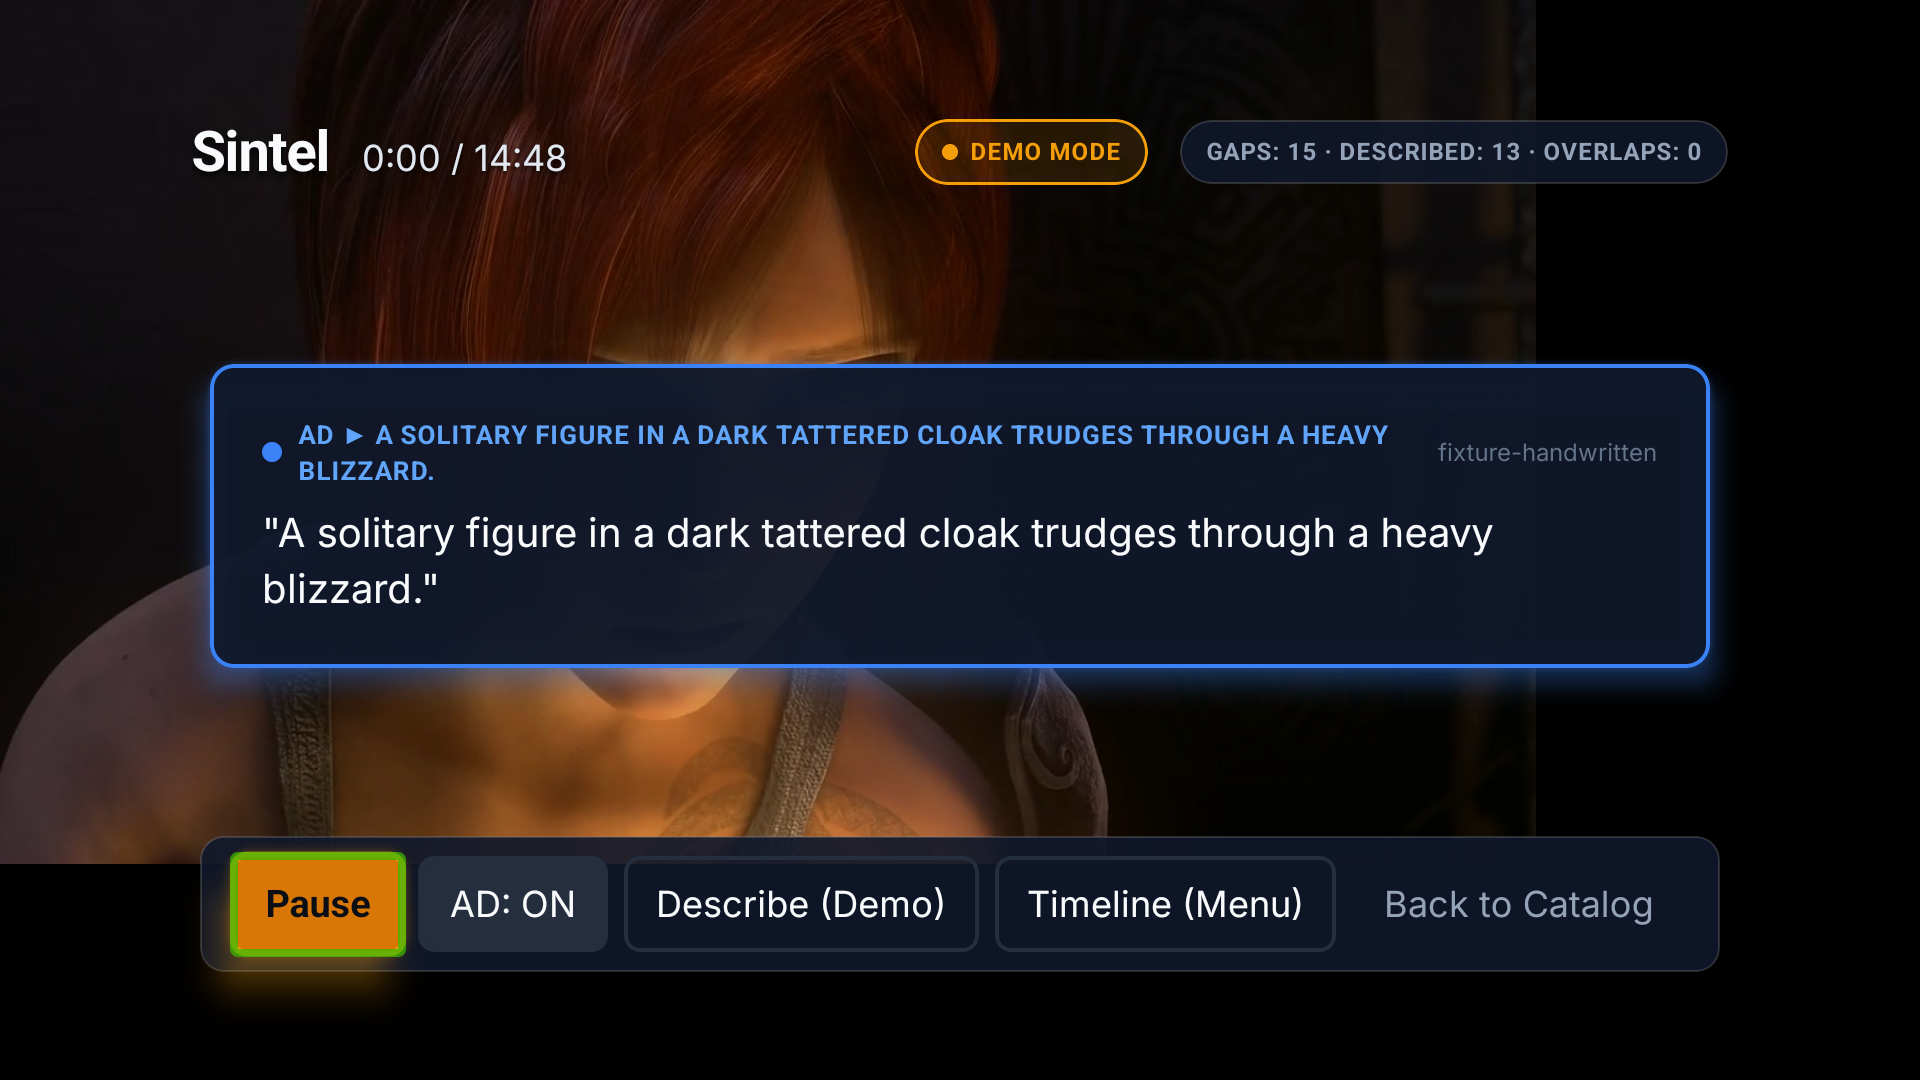
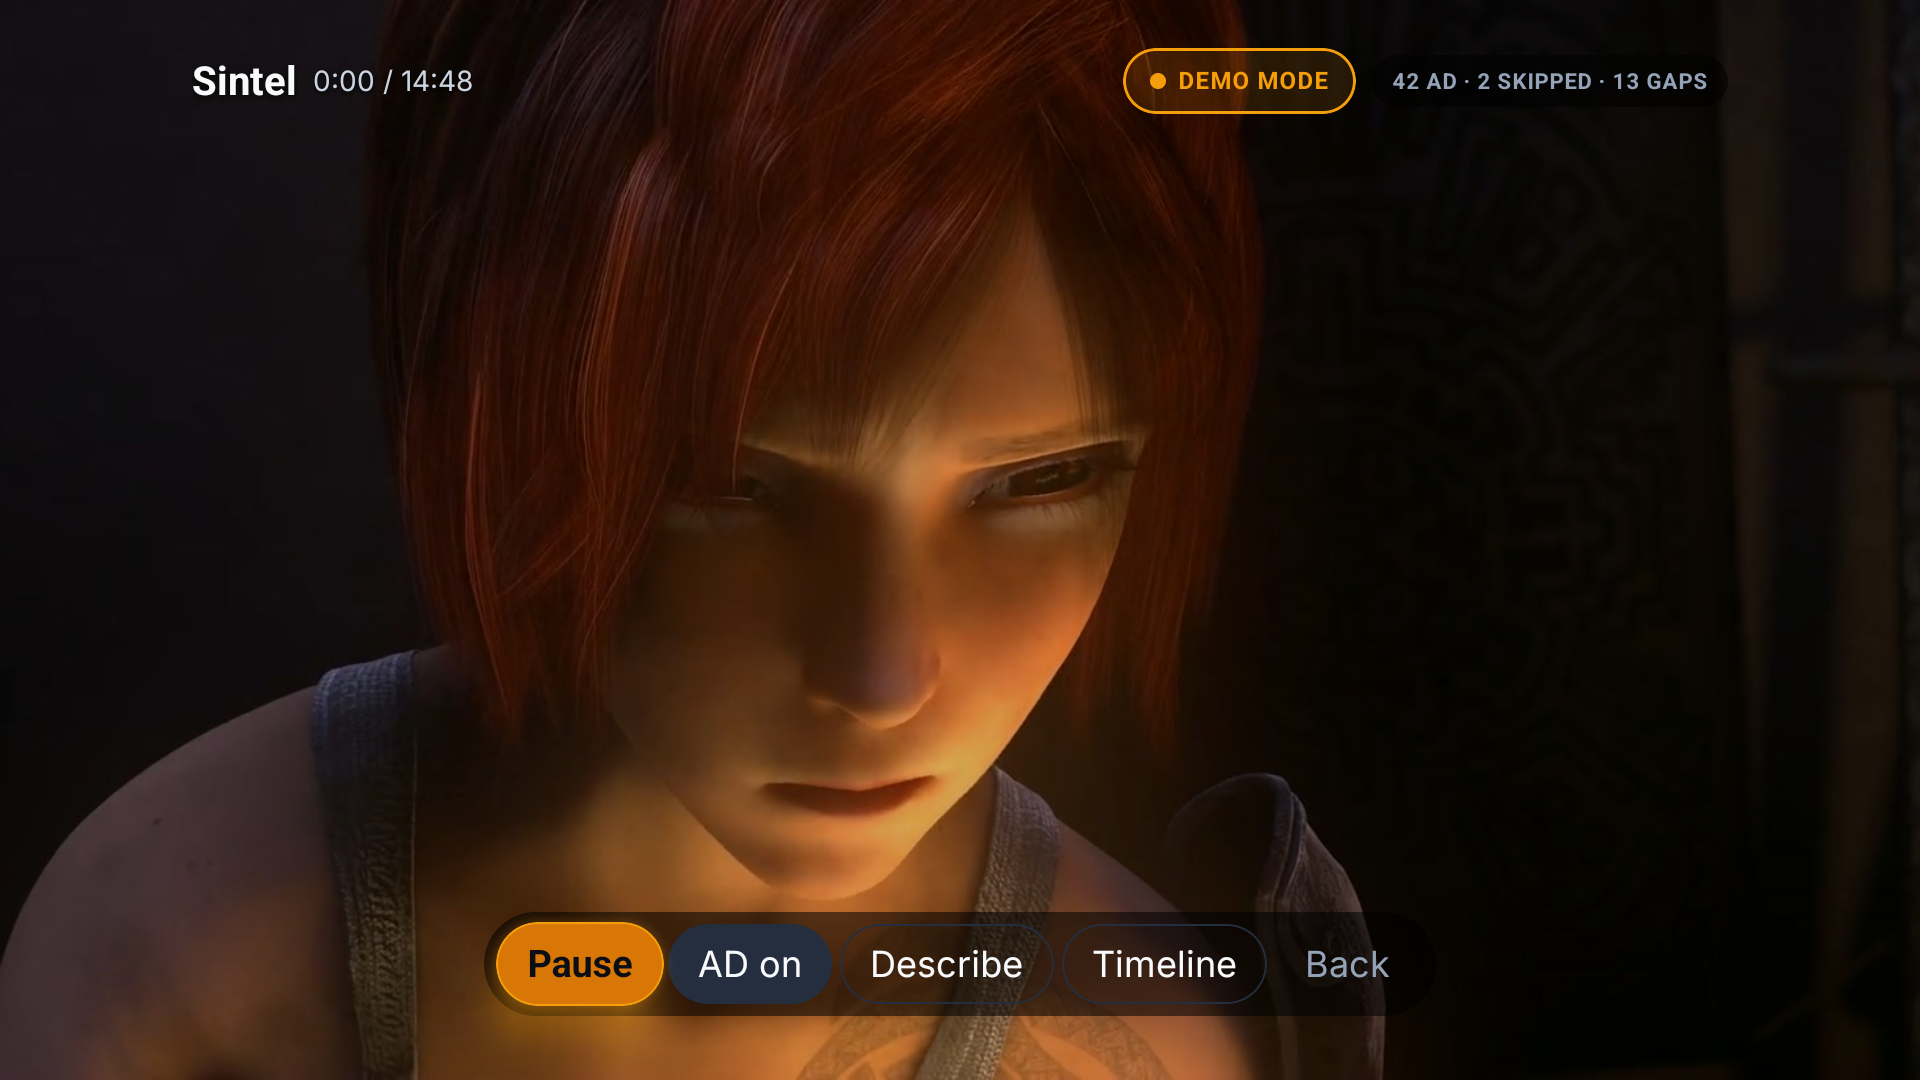
LIVE mode was unreachable in every build ever shipped. Make it a runtime switch
Found while shooting the demo video. The plan was to build a LIVE apk, film the
Fire TV app calling the deployed Bedrock pipeline, and have the AWS Builder
claim shown rather than asserted. The LIVE build came out identical to the DEMO
build, which is how this surfaced.

WHAT WAS BROKEN

core/config.ts read process.env.DEMO_MODE and process.env.API_URL, and the
Describe button told the user: "Set DEMO_MODE=false with AWS credentials to use
live Bedrock inference." Neither the variable nor the instruction could work,
for two compounding reasons:

1. babel-preset-expo inlines only EXPO_PUBLIC_* names into a bundle. A bare
   DEMO_MODE does not exist in the JS runtime on an Android device at all.
2. babel.config.js calls api.cache(true), so transform output is cached
   irrespective of the environment. Even after renaming everything to
   EXPO_PUBLIC_*, the values were still not substituted.

Proof, rather than inference. ops-tools/inspect-apk-bundle.ps1 reads
assets/index.android.bundle straight out of the APK and searches it:

  ABSENT   oqxbh0hegf                 <- the endpoint never reached the bundle
  ABSENT   2026.09.14-live.v4         <- nor did the revision
  PRESENT  EXPO_PUBLIC_DEMO_MODE      <- left as a runtime lookup, not inlined

The first LIVE build also reported "assembleRelease UP-TO-DATE, 4 executed":
Gradle keys the JS bundle task on input FILES, and an environment variable is
not a file, so it shipped the previous bundle. Deleting the generated assets
[…]

diff --git a/apps/firetv/tests/config-env-prefix.test.ts b/apps/firetv/tests/config-env-prefix.test.ts
@@ -1,0 +1,118 @@
+/**
+ * The bug this pins, and why the fix looks the way it does.
+ *
+ * core/config.ts read process.env.DEMO_MODE and process.env.API_URL, and the
+ * app told people to "Set DEMO_MODE=false" for live inference. That could not
+ * work, for two compounding reasons:
+ *
+ *  1. babel-preset-expo inlines only EXPO_PUBLIC_* names into a bundle, so a
+ *     bare DEMO_MODE does not exist in the device runtime at all.
+ *  2. babel.config.js calls api.cache(true), so transform output is cached
+ *     regardless of environment - even EXPO_PUBLIC_ names were left as live
+ *     process.env lookups rather than replaced with values.
+ *
+ * Proved by reading the JS bundle out of the built APK: the endpoint URL was
+ * ABSENT and the literal string EXPO_PUBLIC_DEMO_MODE was PRESENT, which is
+ * the exact opposite of inlining. So demoMode was permanently true and apiUrl
+ * permanently empty in every build ever produced.
+ *
+ * The fix stops depending on build-time environment entirely: the endpoint is
+ * committed, demo mode still defaults to true, and the switch is made at
+ * runtime. These tests exist so nobody reintroduces an env-var switch that
+ * silently does nothing.
+ */
+import fs from 'node:fs';
+import path from 'node:path';
+
+const configPath = path.resolve(__dirname, '../src/core/config.ts');
+const configSource = fs.readFileSync(configPath, 'utf8');
+
+const freshConfig = () => {
+  jest.resetModules();
+  // eslint-disable-next-line @typescript-eslint/no-var-requires
+  return require('../src/core/config');
+};
+
+describe('runtime config does not depend on build-time environment variables', () => {
+  it('reads no process.env at all', () => {
+    // The whole class of bug was "an env var that never arrives". The only
+    // safe number of env reads in this file is zero.
+    const withoutComments = configSource.replace(/\/\*[\s\S]*?\*\/|\/\/.*$/gm, '');
+    expect(withoutComments).not.toContain('process.env');
+  });
+
+  it('defaults to demo mode, so an unconfigured build still works for a judge', () => {
+    const { config } = freshConfig();
+    expect(config.demoMode).toBe(true);
+  });
+
+  it('ships a real endpoint so LIVE has somewhere to call', () => {
+    const { config, canGoLive } = freshConfig();
+    expect(config.apiUrl).toMatch(/^https:\/\//);
+    expect(canGoLive()).toBe(true);
+  });
+});
+
+describe('the mode can be switched at runtime', () => {
+  it('flips demo mode and reports it back', () => {
+    const { config, setDemoMode } = freshConfig();
+    expect(config.demoMode).toBe(true);
+    setDemoMode(false);
+    expect(config.demoMode).toBe(false);
+    setDemoMode(true);
+    expect(config.demoMode).toBe(true);
+  });
+
+  it('notifies subscribers, and stops after unsubscribe', () => {
+    const { setDemoMode, onModeChange } = freshConfig();
+    const seen: boolean[] = [];
+    const off = onModeChange(v => seen.push(v));
+
+    setDemoMode(false);
+    setDemoMode(true);
+    expect(seen).toEqual([false, true]);
+
+    off();
+    setDemoMode(false);
+    expect(seen).toEqual([false, true]);
+  });
+
+  it('does not notify when the value is unchanged', () => {
+    const { setDemoMode, onModeChange } = freshConfig();
+    const seen: boolean[] = [];
+    onModeChange(v => seen.push(v));
+    setDemoMode(true); // already true
+    expect(seen).toEqual([]);
+  });
+});
+
+describe('the LIVE-unavailable message does not name a broken switch', () => {
+  const playerSource = fs.readFileSync(
+    path.resolve(__dirname, '../src/features/player/presentation/PlayerScreen.tsx'),
+    'utf8'
+  );
+
+  // There are several "LIVE ..." toasts in this screen - the demo-mode refusal
+  // and a Bedrock error path among them. Match the demo-mode one by the switch
+  // it advertises, not by a prefix that other toasts share.
+  const demoToast = playerSource
+    .split('\n')
+    .find(line => line.includes('setToastMessage') && /LIVE is off/.test(line));
+
+  it('no longer tells anyone to set an environment variable', () => {
+    expect(demoToast).toBeDefined();
+    // Scope this to the strings a user can actually read. The source still
+    // mentions DEMO_MODE=false in a comment explaining why it was wrong, and
+    // that comment is the point - it should not be what trips the test.
+    const userFacingToasts = playerSource
+      .split('\n')
+      .filter(line => line.includes('setToastMessage('));
+    for (const toast of userFacingToasts) {
+      expect(toast).not.toContain('DEMO_MODE=false');
+    }
+  });
+
+  it('points at the System Status screen, which is where the switch now lives', () => {
+    expect(demoToast).toMatch(/System Status/i);
+  });
+});

diff --git a/apps/firetv/src/core/config.ts b/apps/firetv/src/core/config.ts
@@ -6,11 +6,74 @@ export interface AppConfig {
   version: string;
 }
 
+/**
+ * Why none of this reads process.env any more.
+ *
+ * This file used to read process.env.DEMO_MODE and process.env.API_URL, and
+ * the app told people to "Set DEMO_MODE=false" to get live inference. That
+ * could never have worked, for two compounding reasons found while shooting
+ * the demo video:
+ *
+ *  1. babel-preset-expo inlines only EXPO_PUBLIC_* names into a bundle. A bare
+ *     DEMO_MODE is simply absent from the JS runtime on an Android device.
+ *  2. babel.config.js calls api.cache(true), which caches transform output
+ *     regardless of the environment. So even the EXPO_PUBLIC_ names were left
+ *     as live `process.env.X` lookups instead of being replaced by values.
+ *     Verified by reading assets/index.android.bundle straight out of the APK
+ *     (ops-tools/inspect-apk-bundle.ps1): the endpoint URL was ABSENT and the
+ *     string EXPO_PUBLIC_DEMO_MODE was PRESENT - the opposite of inlining.
+ *
+ * The net effect was that demoMode was permanently true and apiUrl permanently
+ * empty, in every build, with no way to change either.
+ *
+ * So the endpoint is committed here instead. It holds no secret: the Lambda
+ * behind it owns the AWS credentials, and the television only ever makes a
+ * plain fetch(). That is the whole point of the architecture, and it is why a
+ * runtime toggle is safe - switching to LIVE puts no key on the device.
+ *
+ * demoMode still DEFAULTS to true, so a judge who builds this repo with no
+ * configuration gets the working no-credentials path, as the rules require.
+ * It is switchable at runtime from the System Status screen, which is what
+ * makes live Bedrock inference demonstrable without rebuilding.
+ */
+
+/** The deployed pipeline from services/pipeline. Public by design. */
+export const DEPLOYED_API_URL =
+  'https://oqxbh0hegf.execute-api.us-east-1.amazonaws.com';
+
+export const DEPLOYED_MEDIA_CDN_URL = 'https://d2ef099dzscscm.cloudfront.net';
+
 export const config: AppConfig = {
-  // Default to true for judge-friendly no-key path per hackathon requirements
-  demoMode: process.env.DEMO_MODE !== 'false',
-  apiUrl: process.env.API_URL || '',
-  mediaCdnUrl: process.env.MEDIA_CDN_URL || '',
-  appRevision: process.env.APP_REVISION || '2026.09.02-build.1',
+  demoMode: true,
+  apiUrl: DEPLOYED_API_URL,
+  mediaCdnUrl: DEPLOYED_MEDIA_CDN_URL,
+  appRevision: '2026.09.14-runtime-toggle.v5',
   version: '1.0.0'
 };
+
+type ModeListener = (demoMode: boolean) => void;
+const listeners = new Set<ModeListener>();
+
+/**
+ * Flips between DEMO and LIVE at runtime. Callers that read config.demoMode
+ * inside an event handler (the player's Describe button, the health probe)
+ * pick the new value up on their next invocation; anything that needs to
+ * re-render subscribes with onModeChange.
+ */
+export function setDemoMode(next: boolean): void {
+  if (config.demoMode === next) return;
+  config.demoMode = next;
+  for (const listener of listeners) listener(next);
+}
+
+export function onModeChange(listener: ModeListener): () => void {
+  listeners.add(listener);
+  return () => {
+    listeners.delete(listener);
+  };
+}
+
+/** LIVE is only meaningful if we actually have somewhere to call. */
+export function canGoLive(): boolean {
+  return config.apiUrl.trim().length > 0;
+}

diff --git a/apps/firetv/src/features/settings/presentation/SystemStatusScreen.tsx b/apps/firetv/src/features/settings/presentation/SystemStatusScreen.tsx
@@ -6,7 +6,7 @@ import { TruthPill } from '../../../shared/TruthPill';
 import { Badge } from '../../../shared/Badge';
 import { Button } from '../../../shared/Button';
 import { Toast } from '../../../shared/Toast';
-import { config } from '../../../core/config';
+import { config, setDemoMode, canGoLive } from '../../../core/config';
 import { announceForAccessibility } from '../../../core/accessibility';
 
 export interface SystemStatusScreenProps {
@@ -54,6 +54,27 @@ export const SystemStatusScreen: React.FC<SystemStatusScreenProps> = ({ navigati
     fetchHealth();
   }, []);
 
+  // Bumped purely to force a re-render after the module-level mode flips.
+  const [, setModeTick] = useState<number>(0);
+
+  const handleToggleMode = async () => {
+    const goingLive = config.demoMode;
+    if (goingLive && !canGoLive()) {
+      setToastMessage('No API endpoint is compiled into this build, so LIVE has nowhere to call.');
+      return;
+    }
+    setDemoMode(goingLive ? false : true);
+    setModeTick(t => t + 1);
+    announceForAccessibility(
+      goingLive
+        ? 'Live mode on. Descriptions will be requested from the deployed AWS pipeline.'
+        : 'Demo mode on. The app will use bundled fixtures and make no network calls.'
+    );
+    // Re-probe so the provider cards stop describing the mode we just left.
+    setHealth(null);
+    await fetchHealth();
+  };
+
   return (
     <ScrollView style={styles.container} contentContainerStyle={styles.contentContainer}>
       {/* Header */}
@@ -85,6 +106,25 @@ export const SystemStatusScreen: React.FC<SystemStatusScreenProps> = ({ navigati
             {config.demoMode
               ? 'App operates in offline standalone demo mode with bundled Creative Commons fixtures and deterministic scheduler.'
               : 'App communicates directly with live deployed AWS Bedrock Converse and Amazon Polly endpoints.'}
+          </Text>
+          {/*
+            Switchable at runtime, on purpose. No AWS credential is ever on the
+            television: LIVE simply lets the app fetch() the deployed HTTP API,
+            and the Lambda behind it holds the keys. So there is nothing unsafe
+            to gate behind a rebuild, and gating it behind one is what hid a
+            broken build-time switch for days.
+          */}
+          <Button
+            label={config.demoMode ? 'Switch to LIVE (AWS Bedrock)' : 'Switch to DEMO (bundled fixtures)'}
+            onPress={handleToggleMode}
+            accessibilityLabel={
+              config.demoMode
+                ? 'Switch to live mode. The app will call the deployed AWS pipeline for descriptions.'
+                : 'Switch to demo mode. The app will use bundled fixtures and make no network calls.'
+            }
+          />
+          <Text style={styles.cardDesc}>
+            {`Endpoint: ${config.apiUrl}`}
           </Text>
         </View>
 

diff --git a/apps/firetv/src/features/player/presentation/PlayerScreen.tsx b/apps/firetv/src/features/player/presentation/PlayerScreen.tsx
@@ -217,7 +217,11 @@ export const PlayerScreen: React.FC<PlayerScreenProps> = ({ route, navigation })
 
   const handleDescribeNow = useCallback(async () => {
     if (config.demoMode) {
-      setToastMessage('LIVE unavailable — demo mode active. Set DEMO_MODE=false with AWS credentials to use live Bedrock inference.');
+      // This message used to say "Set DEMO_MODE=false", which could never have
+      // worked - see the note in core/config.ts. Point at the switch that
+      // actually exists instead of an environment variable that does not
+      // reach the device.
+      setToastMessage('LIVE is off — open System Status from the catalogue and choose "Switch to LIVE" to describe this frame with AWS Bedrock.');
       return;
     }
 

diff --git a/README.md b/README.md
@@ -127,7 +127,7 @@ Stated plainly, because a judge should not have to guess.
 | Subtitle + description provenance | **Verified** | See the two `PROVENANCE.md` files under `apps/firetv/assets/fixtures/` |
 | Bedrock + Polly adapter code | **Verified (mocked)** | `aws-sdk-client-mock`; asserts `amazon.nova-pro-v1:0`, `us-east-1`, fail-loud DEMO enforcement |
 | **Live AWS — Polly** | **Verified** | Real `SynthesizeSpeech` call, 2026-09-07: `Joanna`/neural, `us-east-1`, returned a 16,460-byte MP3. `ops-tools/verify-live-aws.cmd` |
-| **LIVE mode, in the app's own architecture** | **Deployed and verified** | The CDK stack is live in `us-east-1`. `GET /health` on the deployed HTTP API returns `{"mode":"live","providers":{"bedrock":"ok","polly":"ok","s3":"ok"}}`, and `POST /describe` with a real Sintel frame returns a Nova Pro description in ~2s. The Fire TV app reaches it by plain `fetch()`, so **no AWS credentials ever go on the television**. `ops/verify-live-endpoint.cmd` and `ops/verify-live-describe-real-frame.cmd` reproduce both |
+| **LIVE mode, in the app's own architecture** | **Deployed — check it yourself** | Live in `us-east-1`: **https://oqxbh0hegf.execute-api.us-east-1.amazonaws.com/health** returns `{"mode":"live","providers":{"bedrock":"ok","polly":"ok","s3":"ok"}}`. `POST /describe` with a real frame returns a Nova Pro description in ~2s. The Fire TV app reaches it by plain `fetch()`, so **no AWS credentials ever go on the television**. `ops/verify-live-endpoint.cmd` and `ops/verify-live-describe-real-frame.cmd` reproduce both |
 | **Live AWS — Bedrock** | **Verified** | Real `InvokeModel` on `amazon.nova-pro-v1:0`, `us-east-1`, 2026-09-07: returned `{"output":{"message":{"content":[{"text":"NARRATV LIVE OK"}]...}},"stopReason":"end_turn","usage":{"inputTokens":9,"outputTokens":6}}`. Blocked for ~40 min beforehand by a post-activation account hold — friction-log entry 11. `ops-tools/verify-live-aws.cmd` |
 | Description coverage | **Complete** | All **13** dialogue-free gaps carry descriptions: 44 lines, of which 42 play and **2 are refused at runtime** because the gap is shorter than the line takes to speak |
 | Model accuracy, measured | **19 of 34 correct unaided** | Every Bedrock-written line was reviewed against its own frame. 19 observations were accepted as written; 15 were corrected. Counts are derived from the per-line labels by `ops-tools/apply-character-register.mjs`, never typed in — see below |
